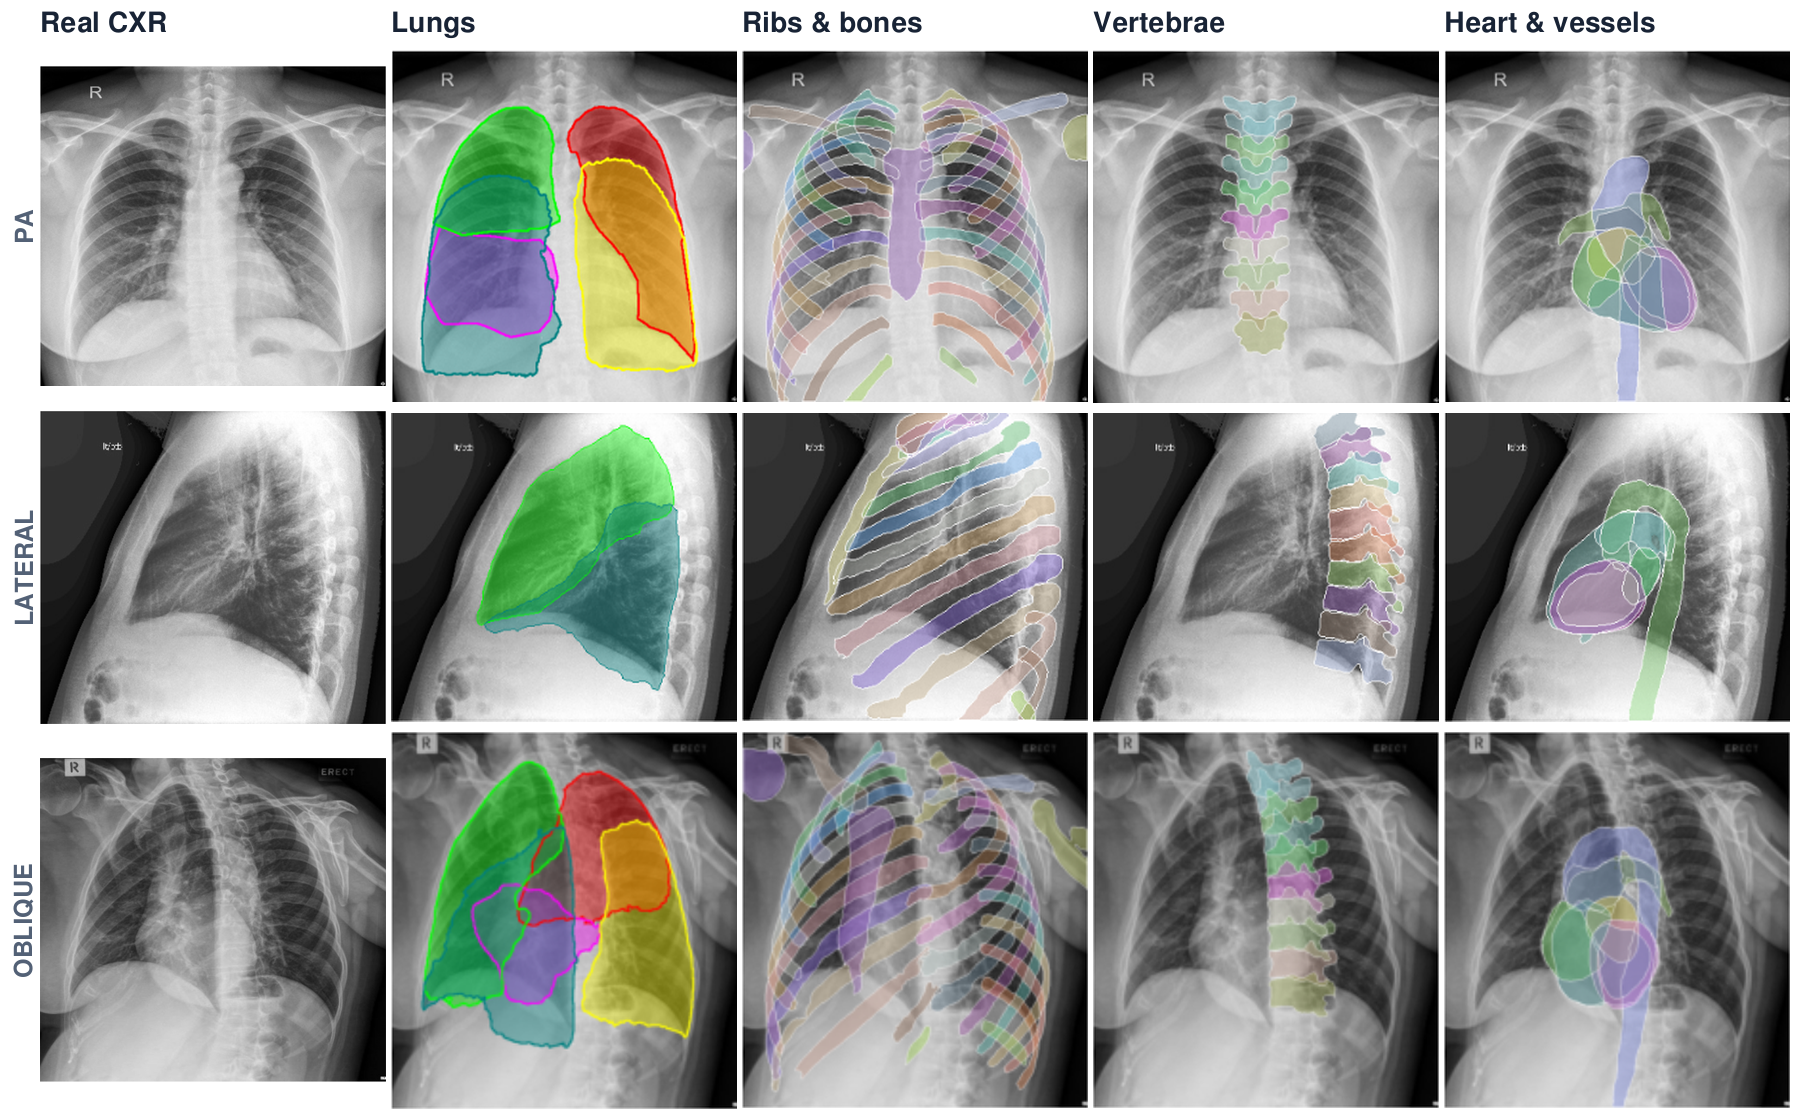
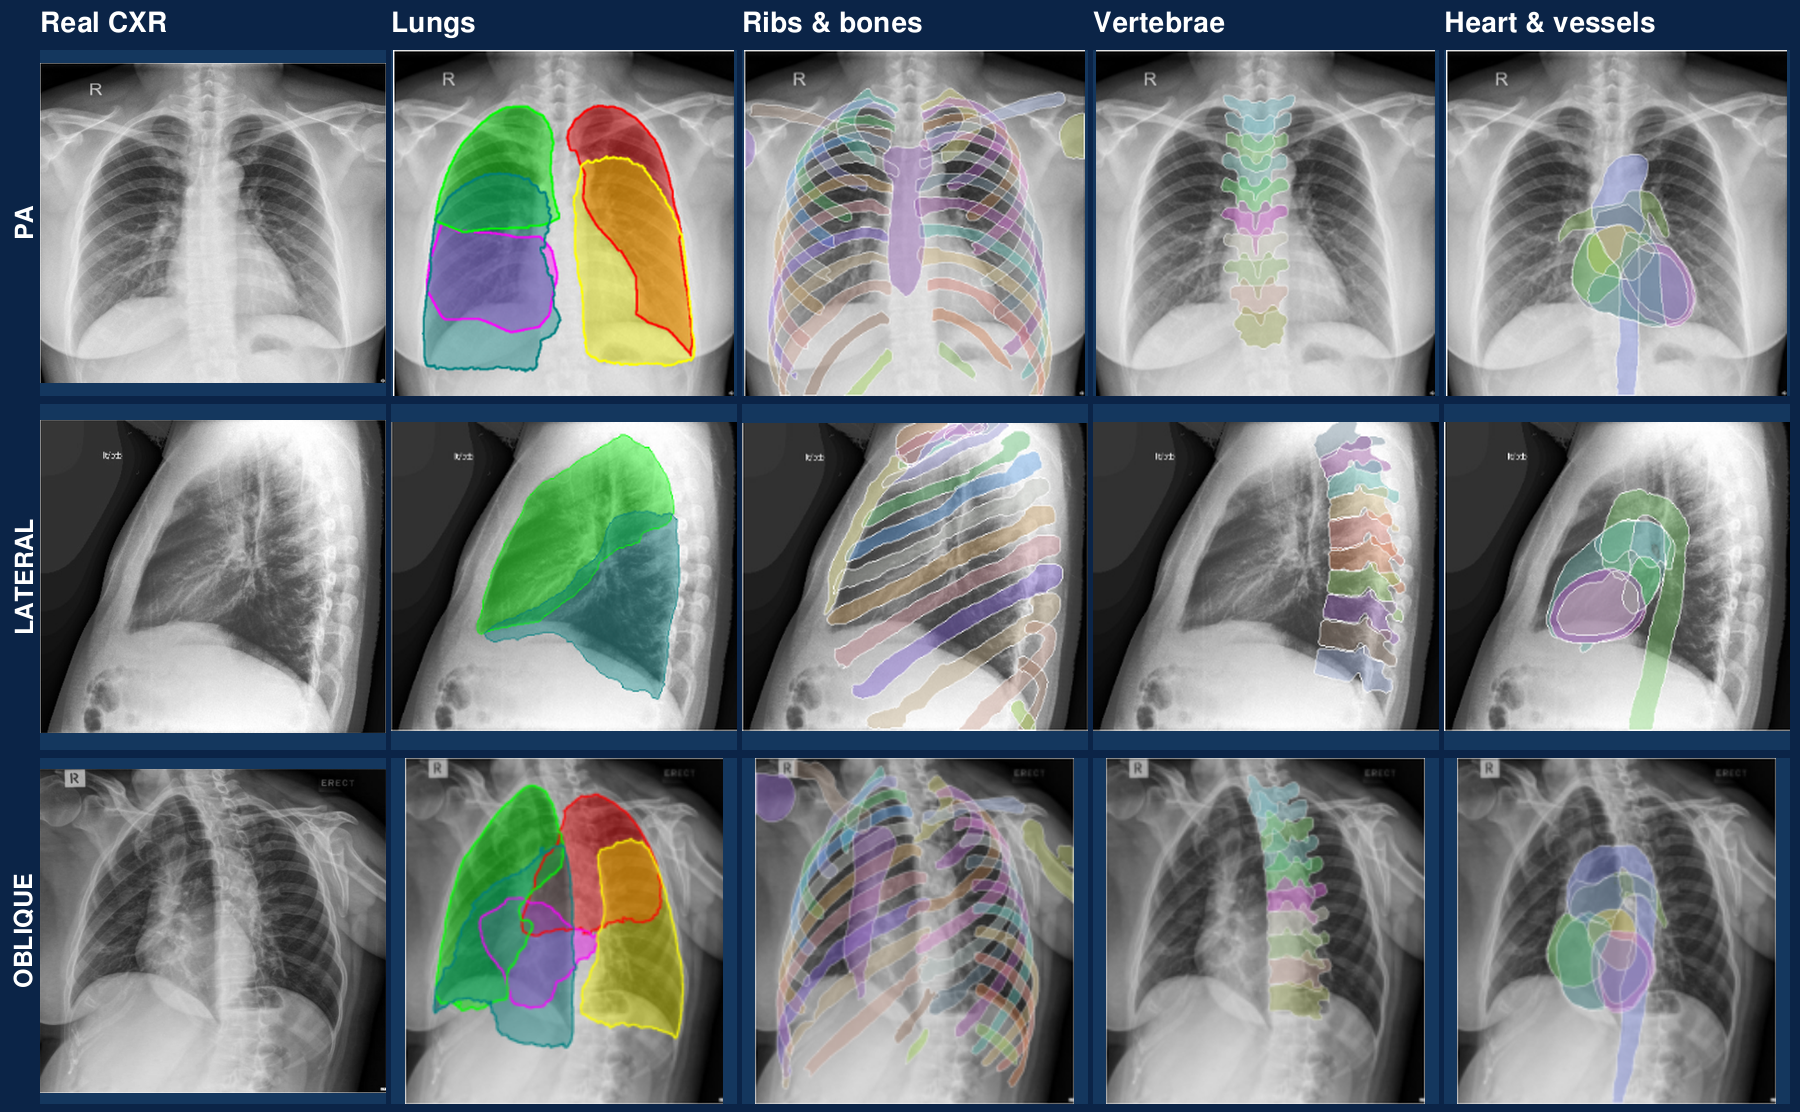
Unify README figures with square panels and a blue theme

diff --git a/scripts/build_readme_assets.py b/scripts/build_readme_assets.py
@@ -55,13 +55,15 @@ DOCTOR_CROPS = {
     "doctor-lateral-vertebrae": ("Real_compare.png", (864, 592, 1129, 829)),
     "doctor-lateral-heart-vessels": ("Real_compare.png", (1398, 592, 1663, 829)),
 }
-INK = "#182335"
-MUTED = "#64748b"
-PURPLE = "#7955bc"
-BLUE = "#3387c8"
-TEAL = "#168c86"
-PINK = "#c76b9d"
-LINE = "#dce3ed"
+BACKGROUND = "#0b2447"
+SURFACE = "#14375e"
+INK = "#ffffff"
+MUTED = "#ccdcf0"
+PURPLE = "#c2a6ff"
+BLUE = "#7ec7ff"
+TEAL = "#67e1d0"
+PINK = "#ffabd7"
+LINE = "#335b85"
 NATIVE_GROUPS = {("pa", "ribs"), ("pa", "heart-vessels"), ("lateral", "ribs")}
 
 
@@ -87,9 +89,10 @@ def text(draw, pos, label, size=26, fill=INK, bold=False, anchor=None):
 def image_box(canvas, path, box, background=None):
     x, y, w, h = box
     if background:
-        ImageDraw.Draw(canvas).rectangle((x, y, x + w, y + h), fill=background)
+        ImageDraw.Draw(canvas).rectangle((x, y, x + w - 1, y + h - 1), fill=background)
     im = Image.open(path).convert("RGB")
-    im.thumbnail((w, h), Image.Resampling.LANCZOS)
+    scale = min(w / im.width, h / im.height)
+    im = im.resize((round(im.width * scale), round(im.height * scale)), Image.Resampling.LANCZOS)
     canvas.paste(im, (int(x + (w - im.width) / 2), int(y + (h - im.height) / 2)))
 
 
@@ -190,30 +193,31 @@ def render_native_panels(input_dir):
 
 
 def build_overview():
-    canvas = Image.new("RGB", (1800, 790), "#ffffff")
+    canvas = Image.new("RGB", (1800, 686), BACKGROUND)
     d = ImageDraw.Draw(canvas)
     text(d, (54, 32), "ANYCXR / SYNTHETIC SUPERVISION", 23, PURPLE, True)
     text(d, (54, 78), "From 3D anatomy to chest X-ray segmentation", 49, INK, True)
     text(d, (56, 145), "CT-derived labels. Diverse projections. Joint anatomical learning.", 28, MUTED)
     xs = [54, 487, 920, 1353]
     colors = [TEAL, BLUE, PURPLE, PINK]
+    badges = ["#127c80", "#1b66b5", "#6b4cb3", "#a94983"]
     titles = ["CT + anatomical labels", "Multi-stage randomization",
               "Partial labels + CAR", "Radiographic anatomy"]
     for i, x in enumerate(xs):
-        d.rounded_rectangle((x, 218, x + 393, 696), 18, fill="#f7f9fc", outline=LINE, width=2)
-        d.rounded_rectangle((x + 20, 240, x + 62, 282), 11, fill=colors[i])
-        text(d, (x + 41, 261), str(i + 1).zfill(2), 22, "white", True, "mm")
-        text(d, (x + 78, 247), ["SUPERVISION", "MSDR", "LEARNING", "INFERENCE"][i], 23, colors[i], True)
-        text(d, (x + 20, 568), titles[i], 27, INK, True)
+        d.rectangle((x, 208, x + 392, 600), fill=SURFACE, outline=LINE, width=1)
+        d.rectangle((x + 20, 228, x + 61, 269), fill=badges[i])
+        text(d, (x + 41, 249), str(i + 1).zfill(2), 22, INK, True, "mm")
+        text(d, (x + 78, 235), ["SUPERVISION", "MSDR", "LEARNING", "INFERENCE"][i], 23, colors[i], True)
+        text(d, (x + 20, 495), titles[i], 27, INK, True)
         if i < 3:
-            arrow(d, (x + 402, 449), (x + 424, 449), "#a5b3c6")
+            arrow(d, (x + 402, 385), (x + 424, 385), BLUE)
 
     x = xs[0]
-    image_box(canvas, SOURCE / "paper-ct.png", (x + 21, 332, 145, 163))
-    arrow(d, (x + 172, 415), (x + 203, 415), TEAL)
-    image_box(canvas, SOURCE / "paper-anatomy.png", (x + 210, 306, 159, 230))
-    text(d, (x + 20, 615), "Matched image and label projections", 23, MUTED)
-    text(d, (x + 20, 650), "Quality-controlled label availability", 23, MUTED)
+    image_box(canvas, SOURCE / "paper-ct.png", (x + 20, 302, 157, 157), "white")
+    arrow(d, (x + 183, 380), (x + 207, 380), TEAL)
+    image_box(canvas, SOURCE / "paper-anatomy.png", (x + 215, 302, 157, 157), "white")
+    text(d, (x + 20, 539), "Matched image and label projections", 23, MUTED)
+    text(d, (x + 20, 571), "Quality-controlled label availability", 23, MUTED)
 
     x = xs[1]
     examples = [ROOT / "examples/inputs/pa/t_10955_a_1.png",
@@ -221,37 +225,37 @@ def build_overview():
                 ROOT / "examples/inputs/la/train_743_a_1.png"]
     for i, path in enumerate(examples):
         xx = x + 18 + i * 121
-        image_box(canvas, path, (xx, 337, 114, 158), "#111821")
-        text(d, (xx + 57, 511), ["PA", "Oblique", "Lateral"][i], 20, MUTED, anchor="mt")
-    text(d, (x + 20, 615), "Attenuation · geometry · appearance", 23, MUTED)
-    text(d, (x + 20, 650), "Synthetic radiographs with labels", 23, MUTED)
+        image_box(canvas, path, (xx, 323, 114, 114), BACKGROUND)
+        text(d, (xx + 57, 451), ["PA", "Oblique", "Lateral"][i], 20, MUTED, anchor="mt")
+    text(d, (x + 20, 539), "Attenuation · geometry · appearance", 23, MUTED)
+    text(d, (x + 20, 571), "Synthetic radiographs with labels", 23, MUTED)
 
     x = xs[2]
     # A compact conceptual U-Net follows the manuscript's model diagram.
     heights = [92, 68, 45, 28, 45, 68, 92]
     for i, h in enumerate(heights):
         xx = x + 61 + i * 39
-        yy = 386 - h // 2
-        d.rounded_rectangle((xx, yy, xx + 27, yy + h), 4, fill="#b7a0da", outline=PURPLE, width=2)
+        yy = 350 - h // 2
+        d.rounded_rectangle((xx, yy, xx + 27, yy + h), 3, fill="#8e80c6", outline=PURPLE, width=2)
         if i < 6:
-            d.line((xx + 28, 386, xx + 38, 386), fill=PURPLE, width=2)
-    text(d, (x + 196, 444), "Available-label supervision", 24, INK, anchor="mt")
-    d.rounded_rectangle((x + 41, 487, x + 352, 535), 9, fill="#eee7f8", outline="#d9caee", width=2)
-    text(d, (x + 196, 511), "Conditional joint regularization", 21, PURPLE, True, "mm")
-    arrow(d, (x + 196, 478), (x + 196, 487), PURPLE, 2)
-    text(d, (x + 20, 615), "Learn with incomplete annotations", 23, MUTED)
-    text(d, (x + 20, 650), "Regularize the joint representation", 23, MUTED)
+            d.line((xx + 28, 350, xx + 38, 350), fill=PURPLE, width=2)
+    text(d, (x + 196, 407), "Available-label supervision", 24, INK, anchor="mt")
+    d.rectangle((x + 20, 444, x + 372, 480), fill="#31466f", outline="#7768ac", width=1)
+    text(d, (x + 196, 462), "Conditional joint regularization", 21, INK, True, "mm")
+    arrow(d, (x + 196, 435), (x + 196, 444), PURPLE, 2)
+    text(d, (x + 20, 539), "Learn with incomplete annotations", 23, MUTED)
+    text(d, (x + 20, 571), "Regularize the joint representation", 23, MUTED)
 
     x = xs[3]
-    image_box(canvas, SOURCE / "real-pa-input.png", (x + 20, 319, 157, 211), "#111821")
-    arrow(d, (x + 182, 421), (x + 207, 421), PINK)
-    image_box(canvas, SOURCE / "real-pa-lungs.png", (x + 215, 319, 157, 211), "#111821")
-    text(d, (x + 20, 615), "54 overlapping anatomy channels", 23, MUTED)
-    text(d, (x + 20, 650), "Lungs · ribs · vertebrae · heart", 23, MUTED)
-    d.line((54, 735, 1746, 735), fill=LINE, width=2)
-    text(d, (54, 753), "SYNTHETIC TRAINING", 20, TEAL, True)
-    text(d, (900, 753), "PA · LATERAL · OBLIQUE PROFILES", 20, MUTED, anchor="mt")
-    text(d, (1746, 753), "REAL-CXR ILLUSTRATION", 20, PINK, True, "rt")
+    image_box(canvas, SOURCE / "real-pa-input.png", (x + 20, 302, 157, 157), BACKGROUND)
+    arrow(d, (x + 183, 380), (x + 207, 380), PINK)
+    image_box(canvas, SOURCE / "real-pa-lungs.png", (x + 215, 302, 157, 157), BACKGROUND)
+    text(d, (x + 20, 539), "54 overlapping anatomy channels", 23, MUTED)
+    text(d, (x + 20, 571), "Lungs · ribs · vertebrae · heart", 23, MUTED)
+    d.line((54, 636, 1746, 636), fill=LINE, width=1)
+    text(d, (54, 653), "SYNTHETIC TRAINING", 20, TEAL, True)
+    text(d, (900, 653), "PA · LATERAL · OBLIQUE PROFILES", 20, MUTED, anchor="mt")
+    text(d, (1746, 653), "REAL-CXR ILLUSTRATION", 20, PINK, True, "rt")
     canvas.save(ASSETS / "anycxr-overview.png", optimize=True)
 
 
@@ -289,13 +293,14 @@ def build_real_gallery():
             path = SOURCE / f"{prefix}-{view}-{group}.png"
             with Image.open(path) as original:
                 panel, crop_box = trim_padding(original.convert("RGB"))
-            height = round(panel.height * column_width / panel.width)
-            panel = panel.resize((column_width, height), Image.Resampling.LANCZOS)
+            scale = column_width / max(panel.size)
+            panel = panel.resize((round(panel.width * scale), round(panel.height * scale)),
+                                 Image.Resampling.LANCZOS)
             panels.append((panel, path, crop_box))
-        rows.append((view, label, panels, max(p[0].height for p in panels)))
+        rows.append((view, label, panels, column_width))
 
     height = header_height + sum(row[3] for row in rows) + row_gap * 2 + margin
-    canvas = Image.new("RGB", (width, height), "#ffffff")
+    canvas = Image.new("RGB", (width, height), BACKGROUND)
     d = ImageDraw.Draw(canvas)
     headers = ["Real CXR", "Lungs", "Ribs & bones", "Vertebrae", "Heart & vessels"]
     for x, title in zip(xs, headers):
@@ -307,22 +312,27 @@ def build_real_gallery():
         bounds = label_font.getbbox(label)
         label_image = Image.new("RGBA", (bounds[2] - bounds[0] + 4, bounds[3] - bounds[1] + 4))
         ImageDraw.Draw(label_image).text((2 - bounds[0], 2 - bounds[1]), label,
-                                       font=label_font, fill="#536176")
+                                       font=label_font, fill=INK)
         label_image = label_image.transpose(Image.Transpose.ROTATE_90)
         canvas.paste(label_image, (margin + (label_width - label_image.width) // 2,
                                   y + (row_height - label_image.height) // 2), label_image)
         for x, group, (panel, path, crop_box) in zip(xs, groups, panels):
+            d.rectangle((x, y, x + column_width - 1, y + column_width - 1), fill=SURFACE)
+            panel_x = x + (column_width - panel.width) // 2
             panel_y = y + (row_height - panel.height) // 2
-            canvas.paste(panel, (x, panel_y))
+            canvas.paste(panel, (panel_x, panel_y))
             layout.append({"view": view, "group": group, "source": str(path.relative_to(ROOT)),
                            "source_crop_xyxy": list(crop_box),
-                           "display_xywh": [x, panel_y, panel.width, panel.height],
+                           "tile_xywh": [x, y, column_width, column_width],
+                           "display_xywh": [panel_x, panel_y, panel.width, panel.height],
                            "annotation_type": "input" if group == "input" else
                            ("model_prediction" if view == "oblique" else "physician_refined")})
         y += row_height + row_gap
     canvas.save(ASSETS / "anycxr-real-anatomy.png", optimize=True)
     (ASSETS / "gallery-layout.json").write_text(json.dumps({"size": list(canvas.size),
-        "column_gap": gap, "row_gap": row_gap, "panels": layout}, indent=2) + "\n")
+        "background": BACKGROUND, "tile_background": SURFACE, "text_color": INK,
+        "tile_size": column_width, "column_gap": gap, "row_gap": row_gap,
+        "panels": layout}, indent=2) + "\n")
 
 
 def display_name(name):

diff --git a/docs/assets/README.md b/docs/assets/README.md
@@ -2,8 +2,8 @@
 
 Two figures introduce the method and show the existing real-CXR examples:
 
-- [anycxr-overview.png](anycxr-overview.png): a redesigned overview using the manuscript's CT and 3D anatomy illustrations, bundled synthetic inputs, a simplified learning schematic, and the original real PA input/predicted lung panel.
-- [anycxr-real-anatomy.png](anycxr-real-anatomy.png): the original inputs and **physician-refined annotations** from the PA and lateral **Doctor Annotation** rows of `Real_compare.png`, followed by the manuscript's **oblique model predictions**. Columns show lungs, ribs/bones, vertebrae, and heart/vessels. Projection labels are vertical, and panels use a tight grid without card frames or added black padding.
+- [anycxr-overview.png](anycxr-overview.png): a redesigned overview using the manuscript's CT and 3D anatomy illustrations, bundled synthetic inputs, a simplified learning schematic, and the original real PA input/predicted lung panel. Four square stages use a blue background with white and pale-blue typography; source thumbnails fit square frames while retaining their proportions.
+- [anycxr-real-anatomy.png](anycxr-real-anatomy.png): the original inputs and **physician-refined annotations** from the PA and lateral **Doctor Annotation** rows of `Real_compare.png`, followed by the manuscript's **oblique model predictions**. Columns show lungs, ribs/bones, vertebrae, and heart/vessels. All 15 panels fit identical square tiles in a tight blue grid with white column headings and vertical projection labels. Blue space accommodates the original aspect ratios without stretching or cropping anatomy.
 
 PA and lateral panels show the manuscript's physician-refined annotations; the oblique (OB) panels show existing model predictions. These are separate examples, with no asserted cross-view patient correspondence. Overlapping structures are retained. The physicians refined model predictions; these annotations are not independent blind ground truth.
 
@@ -15,7 +15,7 @@ The source is the retained manuscript repository [Agaresd47/Anycxr_overleaf](htt
 - `figure/Real_compare.png`: real PA and lateral inputs and physician-refined annotation panels, plus the oblique input and prediction panels.
 - `figure/model.png` and the accompanying method text inform the simplified partial-label/CAR schematic. This schematic is conceptual, not a layer-by-layer network specification.
 
-[sources.json](sources.json) records the parent-image SHA-256, exact crop boxes, panel types and retained panel hashes. The eight `doctor-*` panels are direct crops from the manuscript's Doctor Annotation rows, and `real-oblique-*` panels retain the manuscript's oblique inference example. [gallery-layout.json](gallery-layout.json) records the displayed source, annotation type, crop and placement of every panel. Only flat monochrome edge padding (at most six source pixels per edge) is trimmed; native radiographic backgrounds and anatomical content are retained. Display resizing preserves aspect ratios. No new inference, inpainting or mask editing was used to compose this gallery. The CT/3D illustration and synthetic thumbnails in the overview are conceptual examples, not a registered chain of one patient across CT, DRR and real CXR.
+[sources.json](sources.json) records the parent-image SHA-256, exact crop boxes, panel types and retained panel hashes. The eight `doctor-*` panels are direct crops from the manuscript's Doctor Annotation rows, and `real-oblique-*` panels retain the manuscript's oblique inference example. [gallery-layout.json](gallery-layout.json) records the displayed source, annotation type, crop, square tile bounds and image placement of every panel. Only flat monochrome edge padding (at most six source pixels per edge) is trimmed; native radiographic backgrounds and anatomical content are retained. Display resizing preserves aspect ratios. No new inference, inpainting or mask editing was used to compose this gallery. The CT/3D illustration and synthetic thumbnails in the overview are conceptual examples, not a registered chain of one patient across CT, DRR and real CXR.
 
 The original manuscript rasters set the resolution of the retained crops. Panels are retained in [source/](source/), allowing the figures to be rebuilt without access to a private paper repository or a clinical dataset. Earlier PA/lateral prediction crops and the three native renders recorded in [native-panels.json](native-panels.json) remain as historical source assets; they are not used by the current gallery.
 

diff --git a/README.md b/README.md
@@ -31,7 +31,7 @@ This repository provides the AnyCXR inference package, pretrained model weights,
 ## Anatomy on real chest X-rays
 
 <p align="center">
-  <a href="docs/assets/anycxr-real-anatomy.png"><img src="docs/assets/anycxr-real-anatomy.png" alt="Compact chest X-ray anatomy gallery: physician-refined PA and lateral annotations, plus oblique model predictions, grouped as lungs, ribs and bones, vertebrae, and heart and vessels" width="100%"></a>
+  <a href="docs/assets/anycxr-real-anatomy.png"><img src="docs/assets/anycxr-real-anatomy.png" alt="Square-panel chest X-ray anatomy gallery: physician-refined PA and lateral annotations, plus oblique model predictions, grouped as lungs, ribs and bones, vertebrae, and heart and vessels" width="100%"></a>
 </p>
 
 **Lungs → ribs → vertebrae → heart and vessels.** PA and lateral rows show the manuscript's **physician-refined annotations**; the oblique (OB) row shows **model predictions**. Each row includes the original radiograph.
